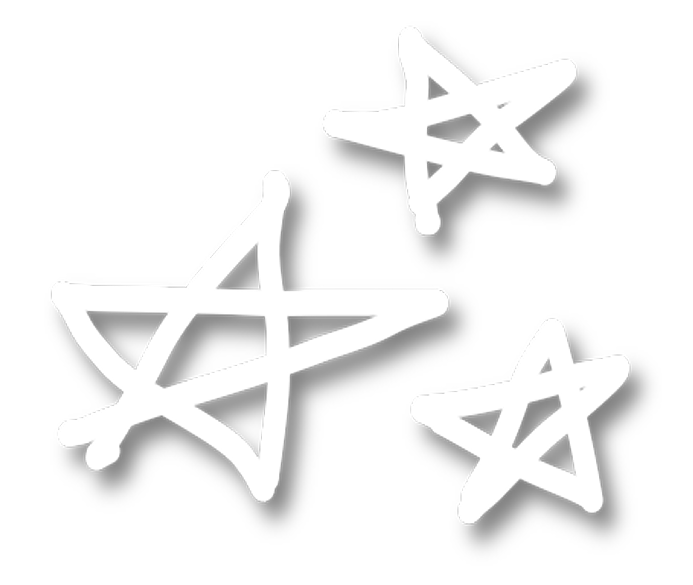
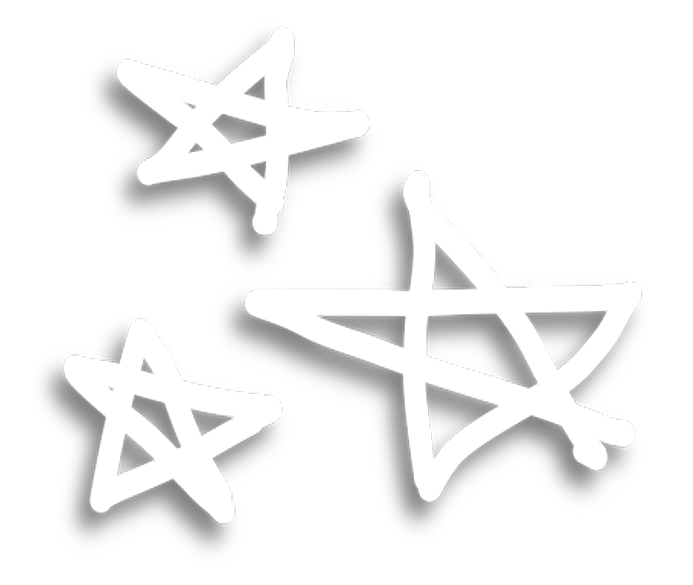
mobile profile image decoration added

diff --git a/index.html b/index.html
@@ -55,8 +55,8 @@
                     <h1>Jihyung Yoo</h1>
                     <h2>포트폴리오</h2>
                     <div class="profile-image">
-                        <img alt="decoration" class="decoration stars" src="./images/stars.png"/>
                         <img alt="decoration" class="decoration arrow" src="./images/arrow.png"/>
+                        <img alt="decoration" class="decoration stars" src="./images/stars.png"/>
                         <div class="image">
                             <img alt="me" src="./images/profile.jpg">
                             <span>유지형</span>

diff --git a/css/style.css b/css/style.css
@@ -156,22 +156,22 @@ p {
 }
 
 .stars {
+    left: unset !important;
+    right: -40vw !important;
     top: 14vw;
-    left: -5vw;
-    right: unset;
     bottom: unset;
-    width: 17vw;
+    width: 16vw;
 }
 
 .arrow {
     position: absolute !important;
+    left: 15vw;
+    right: unset;
     top: 68vw;
-    right: 16vw;
-    left: unset;
     bottom: unset;
-    width: 20vw;
+    width: 24vw;
     height: 35vw !important;
-    transform: rotateZ(350deg);
+    transform: rotateZ(20deg);
 }
 
 .sticker {
